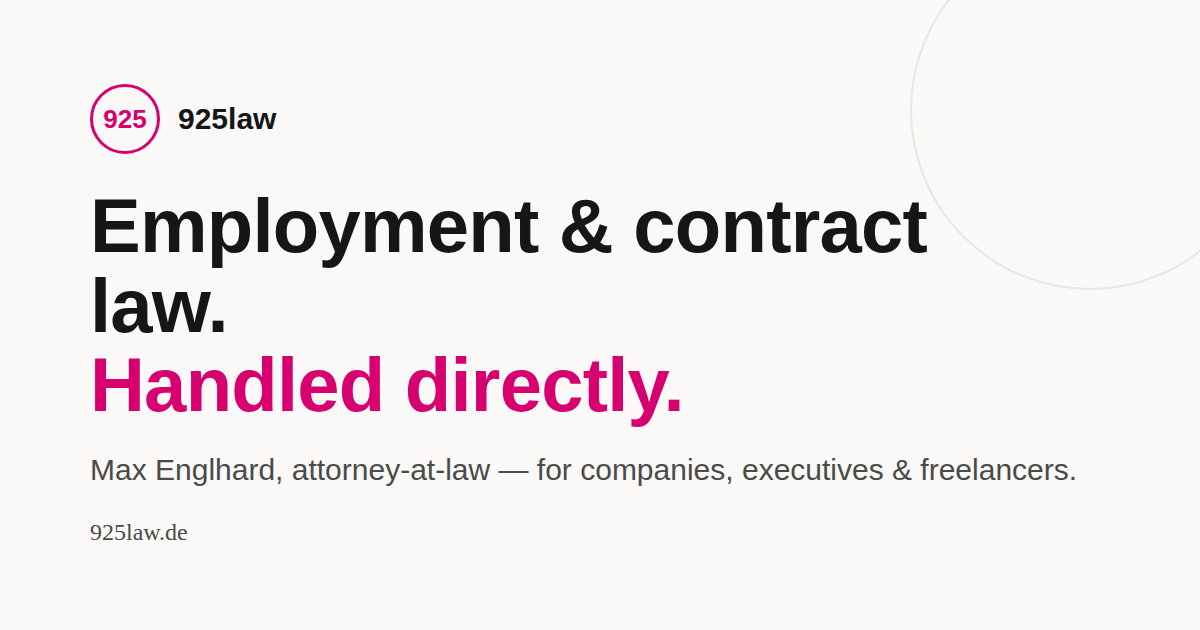
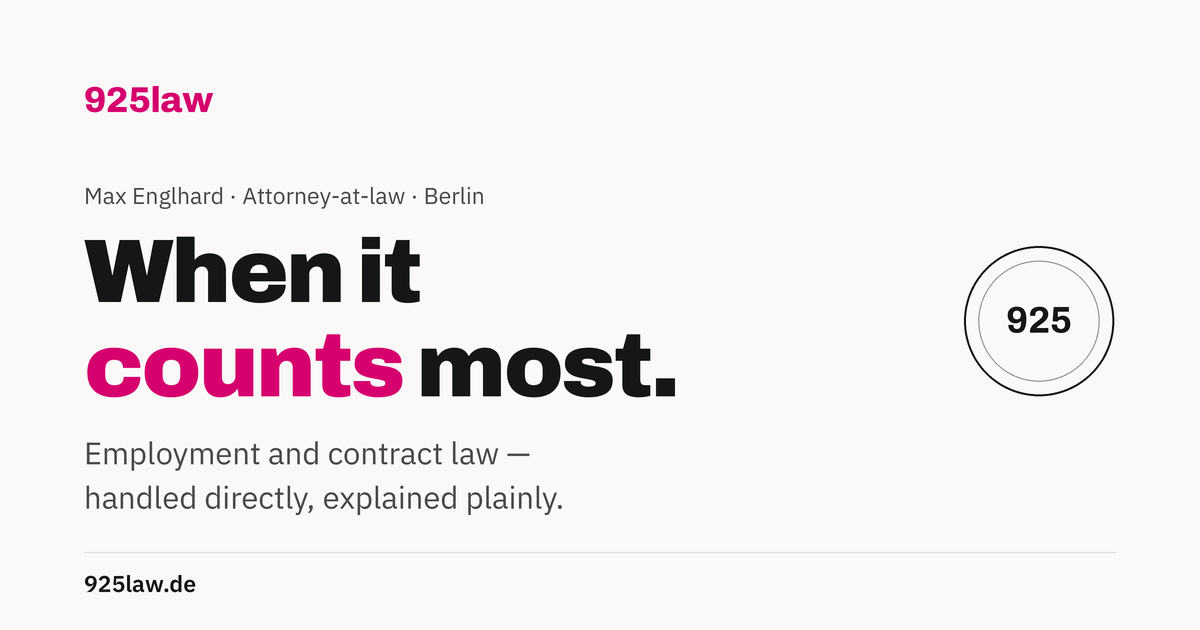
Regenerate share preview images with site fonts and colours via bearbeiten/build_og.py

diff --git a/bearbeiten/build_og.py b/bearbeiten/build_og.py
@@ -1,0 +1,269 @@
+#!/usr/bin/env python3
+"""Share-Vorschaubilder (Open Graph) für 925law erzeugen.
+
+Schreibt  website/og-image.png  (DE)  und  website/og-image-en.png  (EN),
+je 1200 x 630 px, 8-Bit-PNG (Palette), ohne Metadaten.
+
+Aufruf (aus dem Repo-Wurzelverzeichnis):
+
+    python3 -m venv ~/.venvs/925law-assets            # einmalig, außerhalb des Repos
+    ~/.venvs/925law-assets/bin/pip install pillow fonttools brotli uharfbuzz
+    ~/.venvs/925law-assets/bin/python bearbeiten/build_og.py
+
+Abhängigkeiten: pillow (Zeichnen/PNG), fonttools + brotli (woff2 lesen),
+uharfbuzz (Kerning/Zeichenabstände wie im Browser).
+
+Texte ändern: nur die Konstanten im Block TEXTE unten anpassen und das Skript
+erneut starten. Zeilenumbrüche werden bewusst von Hand gesetzt (ein Listen-
+eintrag = eine Zeile); das Skript bricht ab, wenn eine Zeile nicht in die
+Karte passt oder die letzte Zeile nur aus einem einzelnen Wort besteht.
+
+Schriften kommen aus website/fonts/ (woff2, im Speicher entpackt), Farben aus
+den CSS-Variablen in bearbeiten/925law.html. Kein Netzwerkzugriff.
+"""
+import io
+import re
+import sys
+from pathlib import Path
+
+import uharfbuzz as hb
+from fontTools.ttLib import TTFont
+from PIL import Image, ImageDraw, ImageFont
+
+# ───────────────────────────── TEXTE ──────────────────────────────
+# Quelle: I18N in bearbeiten/925law.html (hero_kicker, hero_h1, hero_sub).
+# *Sternchen* markieren das Wort in der Akzentfarbe.
+# Ein Listeneintrag = eine Zeile auf der Karte.
+
+BRAND = "925law"
+URL = "925law.de"
+STAMP_TEXT = "925"
+
+KICKER_DE = "Max Englhard · Rechtsanwalt · Berlin"
+HEADLINE_DE = [
+    "Erst *recht*, wenn's",
+    "drauf ankommt.",
+]
+TAGLINE_DE = [
+    "Arbeits- und Vertragsrecht für Unternehmen,",
+    "Führungskräfte und Freelancer. Ohne Umwege.",
+]
+
+KICKER_EN = "Max Englhard · Attorney-at-law · Berlin"
+HEADLINE_EN = [
+    "When it",
+    "*counts* most.",
+]
+TAGLINE_EN = [
+    "Employment and contract law —",
+    "handled directly, explained plainly.",
+]
+
+CARDS = {
+    "og-image.png": (KICKER_DE, HEADLINE_DE, TAGLINE_DE),
+    "og-image-en.png": (KICKER_EN, HEADLINE_EN, TAGLINE_EN),
+}
+# ──────────────────────────────────────────────────────────────────
+
+ROOT = Path(__file__).resolve().parent.parent
+FONT_DIR = ROOT / "website" / "fonts"
+SOURCE_HTML = ROOT / "bearbeiten" / "925law.html"
+OUT_DIR = ROOT / "website"
+
+W, H = 1200, 630
+SS = 3  # Supersampling: intern 3600 x 1890, am Ende herunterskaliert
+
+
+def css_colors():
+    """CSS-Variablen (--bg, --ink, ...) aus dem :root-Block der Quelle lesen."""
+    css = SOURCE_HTML.read_text(encoding="utf-8")
+    root = re.search(r":root\s*\{(.*?)\}", css, re.S)
+    if not root:
+        sys.exit("FEHLER: :root-Block in 925law.html nicht gefunden")
+    found = dict(re.findall(r"--([\w-]+)\s*:\s*(#[0-9A-Fa-f]{6})\b", root.group(1)))
+    for key in ("bg", "ink", "ink-soft", "accent", "line"):
+        if key not in found:
+            sys.exit(f"FEHLER: CSS-Variable --{key} fehlt in 925law.html")
+    return {k: tuple(int(v[i:i + 2], 16) for i in (1, 3, 5)) for k, v in found.items()}
+
+
+def mix(fg, bg, alpha):
+    return tuple(round(f * alpha + b * (1 - alpha)) for f, b in zip(fg, bg))
+
+
+class Face:
+    """Eine Schrift aus website/fonts/: woff2 im Speicher entpacken, mit HarfBuzz setzen."""
+
+    def __init__(self, name):
+        path = FONT_DIR / f"{name}.woff2"
+        self.name = name
+        self.tt = TTFont(path)
+        self.tt.flavor = None
+        buf = io.BytesIO()
+        self.tt.save(buf)
+        self.data = buf.getvalue()
+        self.upm = self.tt["head"].unitsPerEm
+        self.cmap = self.tt.getBestCmap()
+        self.hb = hb.Font(hb.Face(self.data))
+        self._pil = {}
+
+    def pil(self, px):
+        px = round(px)
+        if px not in self._pil:
+            self._pil[px] = ImageFont.truetype(
+                io.BytesIO(self.data), px, layout_engine=ImageFont.Layout.BASIC)
+        return self._pil[px]
+
+    def shape(self, text, tracking=0.0):
+        """-> ([(Zeichenindex, Glyphname, x in em)], Breite in em). tracking in em je Zeichen."""
+        missing = sorted({c for c in text if ord(c) not in self.cmap})
+        if missing:
+            sys.exit(f"FEHLER: {self.name} enthält die Zeichen {missing} nicht (Text: {text!r})")
+        buf = hb.Buffer()
+        buf.add_str(text)
+        buf.guess_segment_properties()
+        # Ligaturen aus: 1 Zeichen = 1 Glyphe (wie im Browser bei letter-spacing)
+        hb.shape(self.hb, buf, {"liga": False, "clig": False, "calt": False})
+        out, x = [], 0.0
+        for info, pos in zip(buf.glyph_infos, buf.glyph_positions):
+            out.append((info.cluster, self.hb.glyph_to_string(info.codepoint),
+                        x + pos.x_offset / self.upm))
+            x += pos.x_advance / self.upm + tracking
+        return out, x - (tracking if out else 0.0)
+
+    def width(self, text, size, tracking=0.0):
+        return self.shape(text, tracking)[1] * size
+
+    def draw(self, draw, x, baseline, text, size, fill, tracking=0.0, scale=1):
+        """Text mit linker Kante x und Grundlinie baseline zeichnen (Einheiten: Karten-px).
+        fill: eine Farbe oder eine Liste mit einer Farbe je Zeichen."""
+        glyphs, width = self.shape(text, tracking)
+        font = self.pil(size * scale)
+        for index, _, gx in glyphs:
+            if not text[index].isspace():
+                color = fill[index] if isinstance(fill, list) else fill
+                draw.text(((x + gx * size) * scale, baseline * scale), text[index],
+                          font=font, fill=color, anchor="ls")
+        return width * size
+
+
+def parse_accent(line, normal, accent):
+    """'Erst *recht*, wenn' -> ('Erst recht, wenn', [Farbe je Zeichen])"""
+    plain, fills = "", []
+    for i, part in enumerate(line.split("*")):
+        plain += part
+        fills += [accent if i % 2 else normal] * len(part)
+    return plain, fills
+
+
+def check_lines(label, lines):
+    if len(lines) > 1 and len(lines[-1].replace("*", "").split()) < 2:
+        sys.exit(f"FEHLER: {label}: letzte Zeile {lines[-1]!r} ist ein einzelnes Wort "
+                 "(Hurenkind) – Zeilen anders umbrechen")
+
+
+def save_png(img, path, exact=()):
+    """8-Bit-PNG mit Palette (256 Farben, ohne Dithering), optimiert, ohne Textchunks/EXIF/ICC.
+    exact: Markenfarben; der jeweils nächste Paletteneintrag wird exakt auf sie gesetzt."""
+    pal = img.convert("RGB").quantize(256, method=Image.Quantize.MAXCOVERAGE,
+                                      dither=Image.Dither.NONE)
+    flat = pal.getpalette()
+    entries = [tuple(flat[i:i + 3]) for i in range(0, len(flat), 3)]
+    for color in exact:
+        nearest = min(range(len(entries)),
+                      key=lambda i: sum((a - b) ** 2 for a, b in zip(entries[i], color)))
+        if max(abs(a - b) for a, b in zip(entries[nearest], color)) > 4:
+            sys.exit(f"FEHLER: Farbe {color} ging bei der Farbreduktion verloren ({path.name})")
+        entries[nearest] = tuple(color)
+    pal.putpalette([v for entry in entries for v in entry])
+    pal.info.clear()
+    pal.save(path, "PNG", optimize=True)
+
+
+def draw_stamp(draw, cx, cy, diameter, ink, bg, face700, scale):
+    """Der 925-Stempel wie im Hero der Seite (SVG-viewBox 120: r=52/42, Schrift 26, y=68)."""
+    u = diameter / 105.4  # 1 viewBox-Einheit in Karten-px (Außenring r=52 + halbe Strichstärke)
+    for r, sw, color in ((52, 1.4, ink), (42, 0.8, mix(ink, bg, 0.5))):
+        ro, wpx = (r + sw / 2) * u * scale, max(1, round(sw * u * scale))
+        draw.ellipse([cx * scale - ro, cy * scale - ro, cx * scale + ro, cy * scale + ro],
+                     outline=color, width=wpx)
+    size = 26 * u
+    width = face700.width(STAMP_TEXT, size)
+    face700.draw(draw, cx - width / 2, cy + 8 * u, STAMP_TEXT, size, ink, scale=scale)
+
+
+def build_card(filename, kicker, headline, tagline, colors, faces):
+    bg, ink, soft, accent, line = (colors[k] for k in ("bg", "ink", "ink-soft", "accent", "line"))
+    img = Image.new("RGB", (W * SS, H * SS), bg)
+    d = ImageDraw.Draw(img)
+
+    check_lines(f"{filename} Headline", headline)
+    check_lines(f"{filename} Tagline", tagline)
+
+    left, right = 84, W - 84
+    stamp_d = 150
+    stamp_cx = right - stamp_d / 2 - 2
+
+    # Wortmarke oben links (wie die Seitenleiste: Archivo 800, Akzentfarbe)
+    faces["a800"].draw(d, left, 112, BRAND, 36, accent, tracking=-0.01, scale=SS)
+
+    # Kicker
+    k_size = 23
+    if left + faces["p400"].width(kicker, k_size) > right:
+        sys.exit(f"FEHLER: {filename}: Kicker zu lang")
+    faces["p400"].draw(d, left, 204, kicker, k_size, soft, scale=SS)
+
+    # Headline (Archivo 900, letter-spacing -0.03em, line-height 1.05 wie #hero h1)
+    h_size, h_track = 90, -0.03
+    h_max = stamp_cx - stamp_d / 2 - 36
+    y = 302
+    for text in headline:
+        plain, fills = parse_accent(text, ink, accent)
+        if left + faces["a900"].width(plain, h_size, h_track) > h_max:
+            sys.exit(f"FEHLER: {filename}: Headline-Zeile {plain!r} ist zu breit – kürzer umbrechen")
+        faces["a900"].draw(d, left, y, plain, h_size, fills, tracking=h_track, scale=SS)
+        y += h_size * 1.05
+    last_baseline = y - h_size * 1.05
+
+    # Stempel rechts neben der ersten Headline-Zeile
+    cap_top = 302 - 0.686 * h_size
+    draw_stamp(d, stamp_cx, cap_top + 6 + stamp_d / 2, stamp_d, ink, bg, faces["a700"], SS)
+
+    # Tagline (IBM Plex Sans 400, weiche Tintenfarbe wie #hero p.sub)
+    t_size = 31
+    y = last_baseline + 68
+    for text in tagline:
+        if left + faces["p400"].width(text, t_size) > right:
+            sys.exit(f"FEHLER: {filename}: Tagline-Zeile {text!r} ist zu breit – kürzer umbrechen")
+        faces["p400"].draw(d, left, y, text, t_size, soft, scale=SS)
+        y += t_size * 1.42
+
+    # Fußzeile: Linie + URL
+    d.rectangle([left * SS, 552 * SS, right * SS, 552 * SS + SS - 1], fill=line)
+    faces["p600"].draw(d, left, 592, URL, 23, ink, scale=SS)
+
+    out = img.resize((W, H), Image.LANCZOS)
+    save_png(out, OUT_DIR / filename, exact=(bg, ink, accent))
+    return OUT_DIR / filename
+
+
+def load_faces():
+    return {
+        "a900": Face("archivo-900"),
+        "a800": Face("archivo-800"),
+        "a700": Face("archivo-700"),
+        "p400": Face("ibmplexsans-400"),
+        "p600": Face("ibmplexsans-600"),
+    }
+
+
+def main():
+    colors = css_colors()
+    faces = load_faces()
+    for filename, (kicker, headline, tagline) in CARDS.items():
+        path = build_card(filename, kicker, headline, tagline, colors, faces)
+        print(f"{path.relative_to(ROOT)}  {path.stat().st_size} Bytes")
+
+
+if __name__ == "__main__":
+    main()
